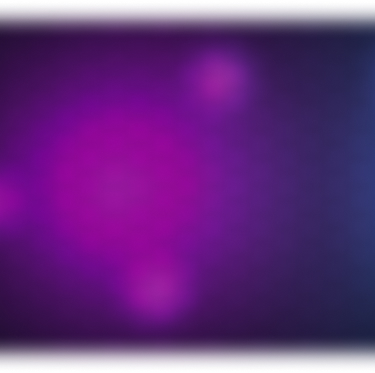
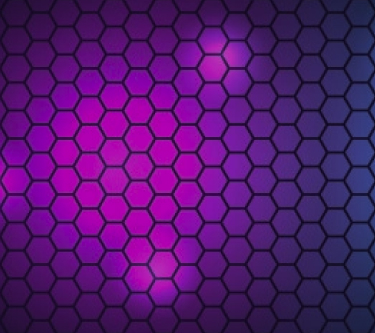
add bg support button

diff --git a/mobile_game/ver2/index.html b/mobile_game/ver2/index.html
@@ -21,7 +21,7 @@
       <div class="name-category">
         <h1>Best game of 2021</h1> <button class="more-btn">MORE</button>
       </div>
-      <div class="category-game-block-wrapper">
+      <div class="category-game-block-wrapper bg-wr-2">
         <div class="block-game-wrapper">
           <div class="block-game bg-1">
             <div class="reating-block">
@@ -164,9 +164,9 @@
       </div>
       <!-- one gtegory -->
       <div class="name-category">
-        <h1>PUZZLE</h1>
+        <h1>PUZZLE</h1><button class="more-btn">MORE</button>
       </div>
-      <div class="category-game-block-wrapper">
+      <div class="category-game-block-wrapper bg-wr-1">
         <div class="block-game-wrapper">
           <div class="block-game bg-10">
             <div class="reating-block">
@@ -238,9 +238,9 @@
       </div>
       <!--  gtegory -->
       <div class="name-category">
-        <h1>FEATURED GAMES</h1>
+        <h1>FEATURED GAMES</h1><button class="more-btn">MORE</button>
       </div>
-      <div class="category-game-block-wrapper">
+      <div class="category-game-block-wrapper bg-wr-5">
         <div class="block-game-wrapper">
           <div class="block-game bg-5">
             <div class="reating-block">
@@ -259,7 +259,7 @@
           <p class="name-game"><a href="#"> Chess - Clash of Kings</a></p>
         </div>
         <div class="block-game-wrapper">
-          <div class="block-game bg-5">
+          <div class="block-game bg-8">
             <div class="reating-block">
               <div class="star-block-wrapper">
                 <img src="./img/Star-green.svg" alt="Star" />
@@ -312,9 +312,9 @@
       </div>
       <!-- one gtegory -->
       <div class="name-category">
-        <h1>ARCADE</h1>
+        <h1>ARCADE</h1><button class="more-btn">MORE</button>
       </div>
-      <div class="category-game-block-wrapper">
+      <div class="category-game-block-wrapper bg-wr-5">
         <div class="block-game-wrapper">
           <div class="block-game bg-6">
             <div class="reating-block">
@@ -389,9 +389,9 @@
       </div>
       <!-- one gtegory -->
       <div class="name-category">
-        <h1>Sports</h1>
+        <h1>Sports</h1><button class="more-btn">MORE</button>
       </div>
-      <div class="category-game-block-wrapper">
+      <div class="category-game-block-wrapper bg-wr-4">
         <div class="block-game-wrapper">
           <div class="block-game bg-2">
             <div class="reating-block">

diff --git a/mobile_game/ver2/style.css b/mobile_game/ver2/style.css
@@ -51,8 +51,7 @@ h1 {
   /* Shadow2 */
   text-align: end;
   padding: 0px 10px;
-  background: 10px/ 21px url(./img/Support.svg), #93fa3f;
-  background-repeat: no-repeat;
+  background: 10px/ 21px no-repeat url(./img/Support.svg), #93fa3f;
 
   box-shadow: 0px 4px 4px rgba(0, 0, 0, 0.25), 0px 6px 0px #4d2bd6;
   border-radius: 15px;
@@ -74,8 +73,7 @@ h1 {
   /* Shadow2 */
   text-align: start;
   padding: 0px 10px;
-  background: 52px/ 17px url(./img/Arrow\ 1.svg), #93fa3f;
-  background-repeat: no-repeat;
+  background: 52px/ 17px no-repeat url(./img/Arrow\ 1.svg), #93fa3f;
 
   box-shadow: 0px 4px 4px rgba(0, 0, 0, 0.25);
   border-radius: 15px;
@@ -93,7 +91,8 @@ h1 {
 }
 
 .header-btn:active,
-.footer-btn:active {
+.footer-btn:active,
+.more-btn:active {
   transform: translateY(2px);
   -webkit-transform: translateY(2px);
   -moz-transform: translateY(2px);
@@ -102,7 +101,8 @@ h1 {
 }
 
 .header-btn:hover,
-.footer-btn:hover {
+.footer-btn:hover,
+.more-btn:hover {
   cursor: pointer;
 }
 
@@ -149,6 +149,8 @@ h1 {
 .heart-block {
   display: flex;
   align-items: center;
+  font-family: -apple-system, BlinkMacSystemFont, "Segoe UI", Roboto, Oxygen,
+    Ubuntu, Cantarell, "Open Sans", "Helvetica Neue", sans-serif;
 }
 .heart-block > img {
   margin-right: 5px;
@@ -223,14 +225,32 @@ h1 {
 .bg-4,
 .bg-5,
 .bg-6,
-.bg-7 {
+.bg-8,
+.bg-7,
+.bg-9,
+.bg-10 {
   background-size: cover;
   background-repeat: no-repeat;
 }
 
-.bg-6 {
-  background: linear-gradient(180deg, rgba(26, 27, 29, 0) 55.73%, #1a1b1d 100%),
-    url(./img/game_6.jpg);
+.bg-wr-1 {
+  background: center / cover no-repeat url(./img/bg/bg.jpg);
+}
+
+.bg-wr-2 {
+  background: center / cover no-repeat url(./img/bg/bg1.jpg);
+}
+
+.bg-wr-3 {
+  background: center / cover no-repeat url(./img/bg/bg2.jpg);
+}
+
+.bg-wr-4 {
+  background: center / cover no-repeat url(./img/bg/bg4-big.jpg);
+}
+
+.bg-wr-5 {
+  background: center / cover no-repeat url(./img/bg/bg4.jpg);
 }
 
 .footer-hr {
